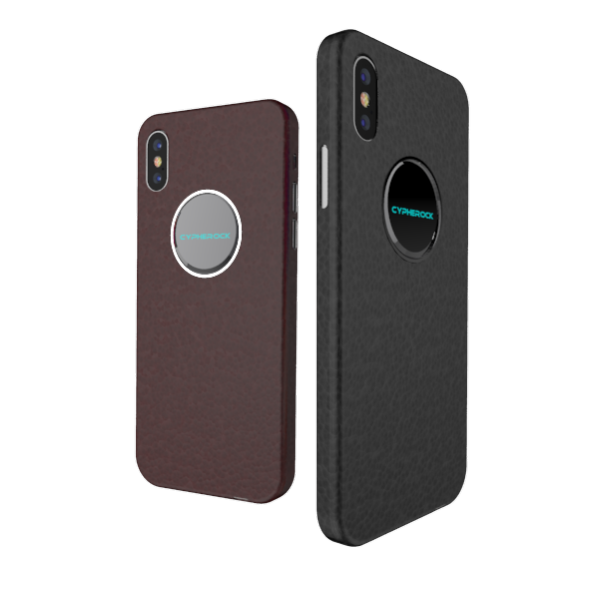
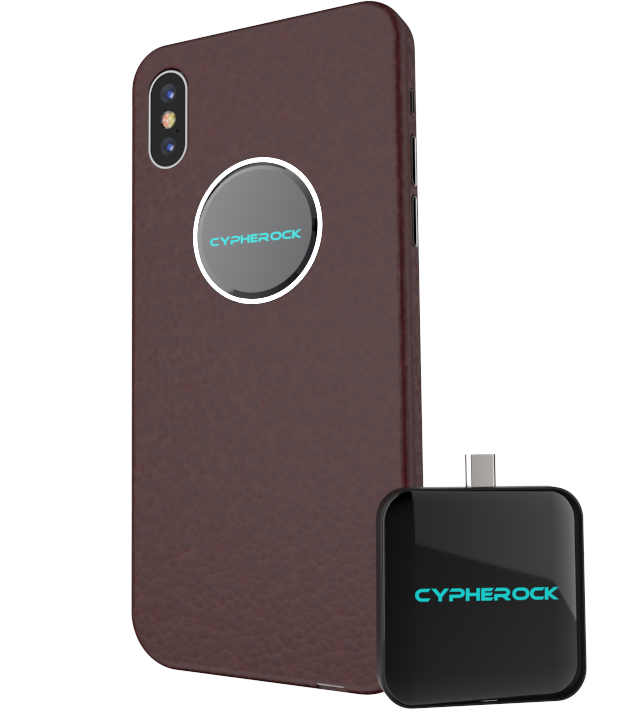
Update website with Cybit

diff --git a/index.html b/index.html
@@ -209,11 +209,11 @@
         </div>
         <div class="col-md-6 col-sm-6 nopadding" id="product">
           <div class="split-content">
-            <h1 class="wow fadeInUp">CY 1</h1>
-            <p class="wow fadeInUp"> CY 1 is the main detachable hardware wallet. It can be ported to different mobile cases.</p>
+            <h1 class="wow fadeInUp">CyBit</h1>
+            <p class="wow fadeInUp"> CyBit is a plug & play hardware wallet. It can be used with different smart devices.</p>
             <ul class="wow fadeInUp" style="text-align: -webkit-left">
               <li>High End Security</li>
-              <li>Easy To Port</li>
+              <li>Iphone Support</li>
               <li>Water Resistant</li>
               <li>Touch Screen</li>
               <li>Scratch Resistant</li>
@@ -228,7 +228,7 @@
         <div class="col-md-6 col-sm-6 nopadding">
           <div class="split-content second">
             <h1 class="wow fadeInUp">CY Case </h1>
-            <p class="wow fadeInUp"> CY Case is the mobile case to which CY 1 can be attached.</p>
+            <p class="wow fadeInUp"> CY Case is the mobile case as a hardware wallet.</p>
             <ul class="wow fadeInUp" style="text-align: -webkit-left">
               <li><span>Scratch Resistant</span></li>
               <li>High Impact Material</li>
@@ -273,7 +273,7 @@
             How much will the wallet cost?
           </div>
           <div class="content">
-            <p>The price will be cheaper than current touchscreen-based hardware wallets in the market. You will have to buy the phone case separately from the wallet.</p>
+            <p>The price will be cheaper than current touchscreen-based hardware wallets in the market.</p>
           </div>
           <div class="title">
             <i class="dropdown icon"></i>
